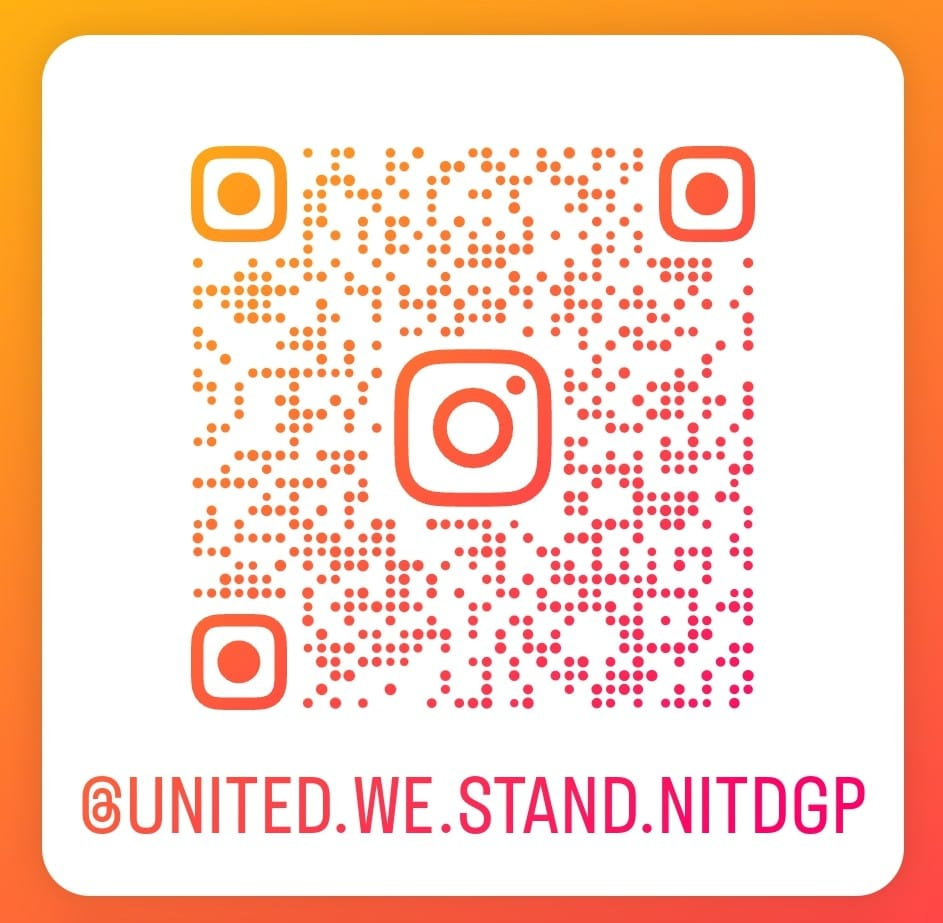
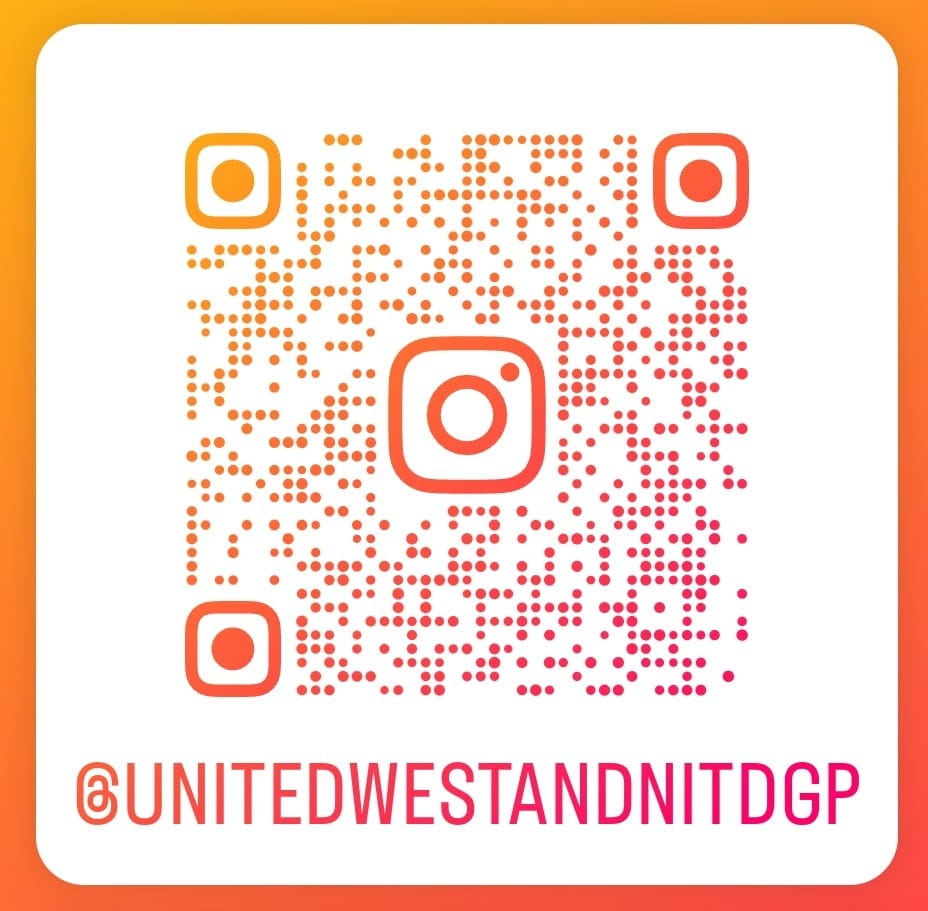
poster

Changed region(s): [[0.1875, 0.1229, 0.8125, 0.7684], [0.0312, 0.0, 0.9688, 0.9835], [0.0625, 0.9528, 0.0938, 0.9835]]

diff --git a/index.html b/index.html
@@ -134,7 +134,7 @@
       <div class="cena-con" style=" display: flex; justify-content: space-between; align-items: center; width: 100%;">
         <div style="display: flex; flex-direction: column; justify-content: center; align-items: center;">
           <p >To view some of our cinematics shots - Visit our Instagram Page</p>
-          <a href="https://www.instagram.com/united.we.stand.nitdgp"><i class="fa-brands fa-instagram"></i> Our Insta Page</a>
+          <a href="https://www.instagram.com/unitedwestandnitdgp?igsh=b3BrYTFkN2l3MXlu"><i class="fa-brands fa-instagram"></i> Our Insta Page</a>
         </div>
         <img class="instaQR" src="instaQR.png" alt="">
     </div>
